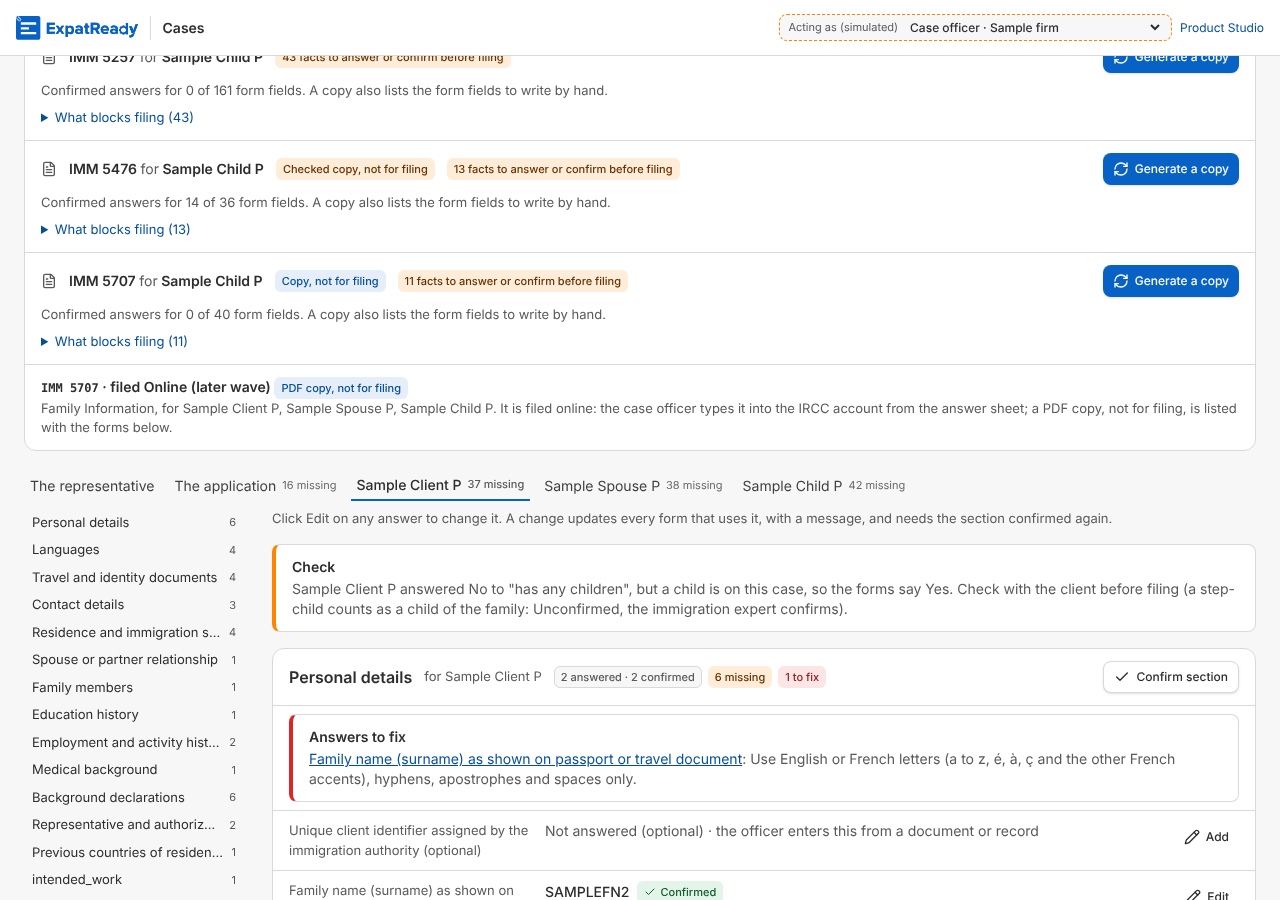
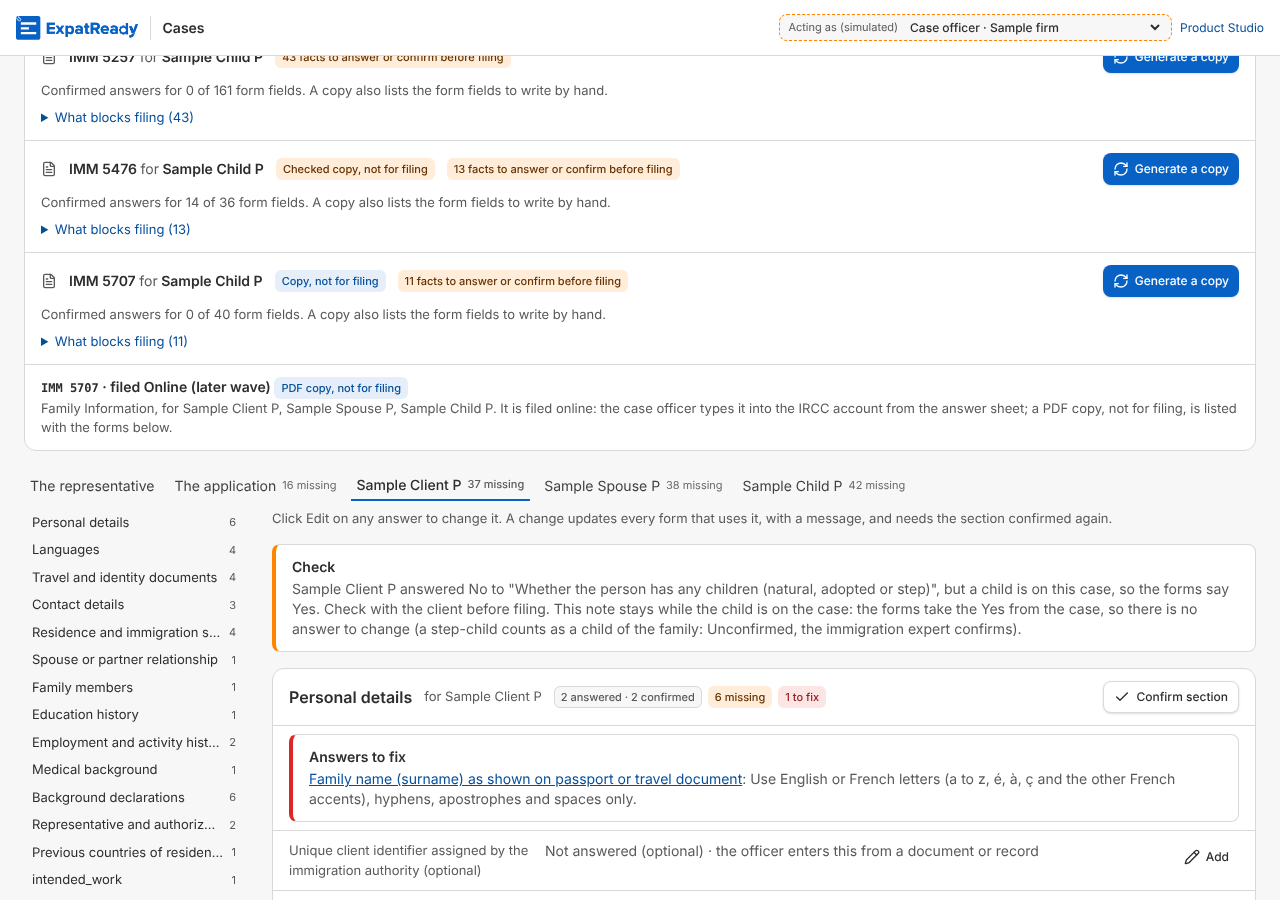
runtime: D4 — review minors: honest note that stays (no action without a screen), the form's own words, "warn", spouse test
Claude-Session: https://claude.ai/code/session_01Ln6TiPeVVCEcE8Wt7Z2QJQ

Changed region(s): [[0.2188, 0.6533, 0.9688, 1.0], [0.9062, 0.9022, 0.9688, 1.0]]

diff --git a/ai-workers/problem-1-pathway-setup-and-form-filling/prototype/studio/tests/runtime/check_case_engine.ts b/ai-workers/problem-1-pathway-setup-and-form-filling/prototype/studio/tests/runtime/check_case_engine.ts
@@ -254,10 +254,14 @@ ok("fail: an answer of a removed row is never read", ![...removed.keys()].some((
 { const fam: Participant[] = [{ subjectId: "c0", role: "case", label: "The application", applies: true }, { subjectId: "p", role: "principal", label: "Client P", applies: true }, { subjectId: "k", role: "child", label: "K", applies: true }];
   const d4 = (people: Participant[], answers: Answer[], mode: "agent" | "sqr" = "agent") => caseView(S, people, answers, [], mode, TODAY).checks.filter((c) => c.id === `derived.${HAS_CHILDREN}.overrides_no`);
   const hit = d4(fam, [ans("p", HAS_CHILDREN, false)]);
-  ok("D4 pass: the client answered No, a child is on the case → one officer check on that person, naming the clash in words", hit.length === 1 && hit[0].subjectId === "p" && hit[0].fact === HAS_CHILDREN && /answered No to "has any children", but a child is on this case, so the forms say Yes/.test(hit[0].message), hit);
+  ok("D4 pass: the client answered No, a child is on the case → one officer check on that person, naming the clash in words", hit.length === 1 && hit[0].subjectId === "p" && hit[0].fact === HAS_CHILDREN && /answered No to "Whether the person has any children[^"]*", but a child is on this case, so the forms say Yes\. Check with the client before filing\. This note stays while the child is on the case/.test(hit[0].message), hit);
   ok("D4 fail: an answer of Yes, or no answer, gives no check (nothing is overridden)", d4(fam, [ans("p", HAS_CHILDREN, true)]).length === 0 && d4(fam, []).length === 0);
   ok("D4 fail: with no child on the case the No stands and no check fires", d4(fam.filter((x) => x.role !== "child"), [ans("p", HAS_CHILDREN, false)]).length === 0);
-  ok("D4 fail: the client's own questionnaire never shows the check (staff only)", d4(fam, [ans("p", HAS_CHILDREN, false)], "sqr").length === 0); }
+  ok("D4 fail: the client's own questionnaire never shows the check (staff only)", d4(fam, [ans("p", HAS_CHILDREN, false)], "sqr").length === 0);
+  // Review minor 2 on 0d5589a4: the spouse or partner too, each on their own tab.
+  const both = d4([...fam, { subjectId: "s", role: "spouse_or_partner", label: "Spouse S", applies: true }], [ans("p", HAS_CHILDREN, false), ans("s", HAS_CHILDREN, false)]);
+  ok("D4 pass: a spouse who answered No gets their own check too; one per person", both.length === 2 && new Set(both.map((c) => c.subjectId)).size === 2 && both.some((c) => c.subjectId === "s" && c.message.startsWith("Spouse S answered No")), both.map((c) => c.subjectId));
+  ok("D4 pass: the check is a warning (\"warn\", as every other check), never one that blocks filing", hit[0]?.severity === "warn" && hit[0]?.group !== "section_check"); }
 
 // ── QA-76: plain words for the officer: no plan or team word, and a role's name, never its key
 const noList = { ...S, field_maps: S.field_maps.map((m) => ({ ...m, entries: m.entries.map((e) => (e.fact === "case.visa_type" ? { ...e, transform: "code_list:t.visa_type" } : e)) })) } as unknown as Snapshot;

diff --git a/ai-workers/problem-1-pathway-setup-and-form-filling/prototype/studio/engine/runtime/case.ts b/ai-workers/problem-1-pathway-setup-and-form-filling/prototype/studio/engine/runtime/case.ts
@@ -349,7 +349,11 @@ export function caseView(s: Snapshot, people: Participant[], answers: Answer[], 
     const said = answers.find((a) => a.subjectId === subjectId && a.field === HAS_CHILDREN && !a.rowKey);
     if (said?.value !== false) continue;
     const who = people.find((p) => p.subjectId === subjectId)!;
-    checks.push({ id: `derived.${HAS_CHILDREN}.overrides_no`, severity: "warning", group: "derived", message: `${who.label} answered No to "has any children", but a child is on this case, so the forms say Yes. Check with the client before filing (a step-child counts as a child of the family: Unconfirmed, the immigration expert confirms).`, subjectId, about_label: who.label, fact: HAS_CHILDREN, section: null, illustrative: false });
+    // Review minors on 0d5589a4: the form's own words for the question; "warn" as every other check; and the note says
+    // what the officer can do, and that it stays as a record while the child is on the case (the question is not asked).
+    // The library's meaning, without its note on how the value is worked out (that is internal).
+    const asked = (fieldOf(s, HAS_CHILDREN)?.meaning ?? "Whether the person has any children").replace(/,\s*derived from .*$/i, "");
+    checks.push({ id: `derived.${HAS_CHILDREN}.overrides_no`, severity: "warn", group: "derived", message: `${who.label} answered No to "${asked}", but a child is on this case, so the forms say Yes. Check with the client before filing. This note stays while the child is on the case: the forms take the Yes from the case, so there is no answer to change (a step-child counts as a child of the family: Unconfirmed, the immigration expert confirms).`, subjectId, about_label: who.label, fact: HAS_CHILDREN, section: null, illustrative: false });
   }
   // P-47 tier 2 (C4.4 part 2): each section's error summary, GOV.UK pattern: every answer that fails its checks and every
   // section check that fired on the section, each naming the field (and row) it links to, in the order of the questions.

diff --git a/ai-workers/problem-1-pathway-setup-and-form-filling/prototype/studio/tests/check_vv_prepare_api.ts b/ai-workers/problem-1-pathway-setup-and-form-filling/prototype/studio/tests/check_vv_prepare_api.ts
@@ -135,7 +135,7 @@ const releases = () => Number(sql("select count(*) from config_release r join co
   const d4Before = await d4("agent", OFFICER);
   await call("POST", `/runtime/cases/${caseId}/people`, { role: "child", displayName: "Sample Child P" }, OFFICER);
   const d4After = await d4("agent", OFFICER), d4Client = await d4("sqr", CLIENT);
-  ok("D4 (P-229 (3), pass and fail): a No that a child on the case overrides is a check on the principal in the officer's case view; none before the child, none in the client's view", said.status < 300 && d4Before.length === 0 && d4After.length === 1 && d4After[0].subjectId === principalId && /answered No to "has any children"/.test(d4After[0].message) && d4Client.length === 0, { said: said.status, before: d4Before.length, after: d4After.length, client: d4Client.length });
+  ok("D4 (P-229 (3), pass and fail): a No that a child on the case overrides is a check on the principal in the officer's case view; none before the child, none in the client's view", said.status < 300 && d4Before.length === 0 && d4After.length === 1 && d4After[0].subjectId === principalId && /answered No to "Whether the person has any children[^"]*", but a child is on this case/.test(d4After[0].message) && d4Client.length === 0, { said: said.status, before: d4Before.length, after: d4After.length, client: d4Client.length });
   const afterChild = await asksChildren();
   ok("C7.7 (review m1, pass and fail): \"has any children\" is asked with no child on the case, and not asked once the case holds a child", before === true && afterChild === false, { before, afterChild });
   const agentRep = (await qsOf("agent", OFFICER)).flatMap((x) => x.questions).filter((q) => q.subjectId === "representative");

diff --git a/ai-workers/problem-1-pathway-setup-and-form-filling/product/screens/C7.7/build-notes-D4.md b/ai-workers/problem-1-pathway-setup-and-form-filling/product/screens/C7.7/build-notes-D4.md
@@ -1,10 +1,17 @@
 # D4 (BACKLOG; P-229 (3), #357 m3): a worked-out Yes over the client's No is a check to the officer
 
 * **Rule:** `engine/runtime/case.ts` `caseView`, officer view only. For each person whose "has any children" is worked out as Yes (the case holds a child: `hasChildrenOf`), when that person's own stored answer is **No**, one check is added: id `derived.person.has_children.overrides_no`, severity warning, on that person, with no section.
-* **The words:** "<Name> answered No to "has any children", but a child is on this case, so the forms say Yes. Check with the client before filing (a step-child counts as a child of the family: Unconfirmed, the immigration expert confirms)."
+* **The words:** "<Name> answered No to "Whether the person has any children (natural, adopted or step)", but a child is on this case, so the forms say Yes. Check with the client before filing. This note stays while the child is on the case: the forms take the Yes from the case, so there is no answer to change (a step-child counts as a child of the family: Unconfirmed, the immigration expert confirms)." The question's words are the library's meaning, without its internal note on how the value is worked out.
 * **Where it shows:** the officer's case page, the person's tab, as a "Check" notice (existing `AgentView` rendering of section-less checks, `questionnaire.tsx`). Never in the client's questionnaire. Screenshot: `screenshots/D4-derived-yes-check-1280.png`.
 * **No check when:** the answer is Yes or missing, no child is on the case (the No stands), or the view is the client's.
 * **Not changed:** the derived Yes still fills the forms (C7.7); the check asks the officer to confirm with the client. Step-children stay Unconfirmed (#357 m4, the immigration expert).
 * **Tests:**
-  * `check_case_engine` has 4 new lines (pass, and fail for Yes or no answer, no child, the client's view): 67/67;
+  * `check_case_engine` has 6 new lines (pass; fail for Yes or no answer, no child and the client's view; the spouse's own check; severity "warn", never blocking filing): 69/69;
   * `check_vv_prepare_api` has 1 end-to-end line (none before the child, one after, none for the client): 38/38.
+
+## Review (0d5589a4): Approve, 8.5/10, and the minors fixed
+1. **The note could not be closed** (EXPERIENCE §2.5): it now says that it stays while the child is on the case, and why (the forms take the Yes from the case). It no longer points to an action the app has no screen for.
+2. **The spouse path had no test:** a line for a spouse who answered No.
+3. **Severity:** now "warn", as every other check (it never blocks filing: `blocksFiling` reads `section_check` only).
+4. **The form's own words for the question**, from the library's meaning.
+* For information (C7.7, approved there): the API still accepts a `PUT` of has_children on a person for whom the question is hidden.
